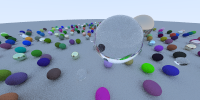
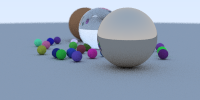
added defocus blur (depth of field)

diff --git a/camera.h b/camera.h
@@ -7,25 +7,29 @@ struct Camera {
 	V3 horizontal;
 	V3 vertical;
 	V3 origin;
-
+	V3 u, v, w;
+	float lensRadius;
 	// verticalFOV is top to bottom in degrees
-	Camera(V3 lookFrom, V3 lookAt, V3 up, float verticalFOV, float aspectRatio) {
+	Camera(V3 lookFrom, V3 lookAt, V3 up, float verticalFOV, float aspectRatio, float aperture, float focusDist) {
+		lensRadius = aperture/2.0f;
 		float theta = verticalFOV*M_PI/180.0f; 
 		float halfHeight = tan(theta/2.0f);
 		float halfWidth = aspectRatio*halfHeight;
 		origin = lookFrom;
-		V3 w = lookFrom-lookAt;
+		w = lookFrom-lookAt;
 		w.normalize();
-		V3 u = cross(up, w);
+		u = cross(up, w);
 		u.normalize();
-		V3 v = cross(w, u);
-		lowerLeftCorner = V3(-halfWidth, -halfHeight, -1.0f);
-		lowerLeftCorner = origin - halfWidth*u - halfHeight*v - w;
-		horizontal = 2.0f*halfWidth*u;
-		vertical = 2.0f*halfHeight*v;
+		v = cross(w, u);
+		// lowerLeftCorner = V3(-halfWidth, -halfHeight, -1.0f);
+		lowerLeftCorner = origin - halfWidth*u*focusDist - halfHeight*v*focusDist - w*focusDist;
+		horizontal = 2.0f*halfWidth*u*focusDist;
+		vertical = 2.0f*halfHeight*v*focusDist;
 	}
 
-	Ray getRay(float u, float v) {
-		return Ray(origin, lowerLeftCorner+u*horizontal+v*vertical - origin);
+	Ray getRay(float s, float t) {
+		V3 rd = lensRadius*randomInUnitDisk();
+		V3 offset = u*rd.x + v*rd.y;
+		return Ray(origin+offset, lowerLeftCorner+s*horizontal+t*vertical - origin - offset);
 	}
 };

diff --git a/main.cpp b/main.cpp
@@ -40,8 +40,8 @@ IHitable *getRandomScene() {
 	IHitable **list = new IHitable*[n+1];
 	list[0] = new Sphere(V3(0.0f, -1000.0f, 0.0f), 1000.0f, new Lambertian(V3(0.5f, 0.5f, 0.5f)));
 	int i = 1;
-	for (int a = -11; a < 11; ++a) {
-		for (int b = -11; b < 11; ++b) {
+	for (int a = -3; a < 3; ++a) {
+		for (int b = -3; b < 3; ++b) {
 			float chooseMaterial = getRandomNumber01();
 			V3 center(a+0.9f*getRandomNumber01(), 0.2f, b+0.9f*getRandomNumber01());
 			float length = (center-V3(4.0f, 0.2f, 0.0f)).length();
@@ -80,8 +80,12 @@ int main(int argCount, char **args) {
 	IHitable *objectList[5];
 	float R = cos(M_PI/4.0f);
 	IHitable *world = getRandomScene();
-
-	Camera camera(V3(-2.0f, 2.0f, 1.0f), V3(0.0f, 0.0f, -1.0f), V3(0.0f, 1.0f, 0.0f), 90.0f, float(width)/float(height));
+	V3 lookFrom(13.0f, 2.0f, 3.0f);
+	V3 lookAt(0.0f, 0.0f, 0.0f);
+	V3 up(0.0f, 1.0f, 0.0f);
+	float distToFocus = 10.0f;
+	float aperture = 0.1f;
+	Camera camera(lookFrom, lookAt, up, 20.0f, float(width)/float(height), aperture, distToFocus);
 	unsigned char* currentTexel = data;
 	auto cc = sizeof(*currentTexel);
 	printf("y lines done:\n");

diff --git a/math.h b/math.h
@@ -129,6 +129,14 @@ V3 randomInUnitSphere() {
 	return p;
 }
 
+V3 randomInUnitDisk() {
+	V3 p;
+	do {
+		p = 2.0f*V3(getRandomNumber01(), getRandomNumber01(), 0.0f) - V3(1.0f, 1.0f, 0.0f);
+	} while (dot(p, p) >= 1.0f);
+	return p;
+}
+
 V3 reflect(V3& v, V3& normal) {
 	return(v - 2.0f*dot(v, normal)*normal);
 }
